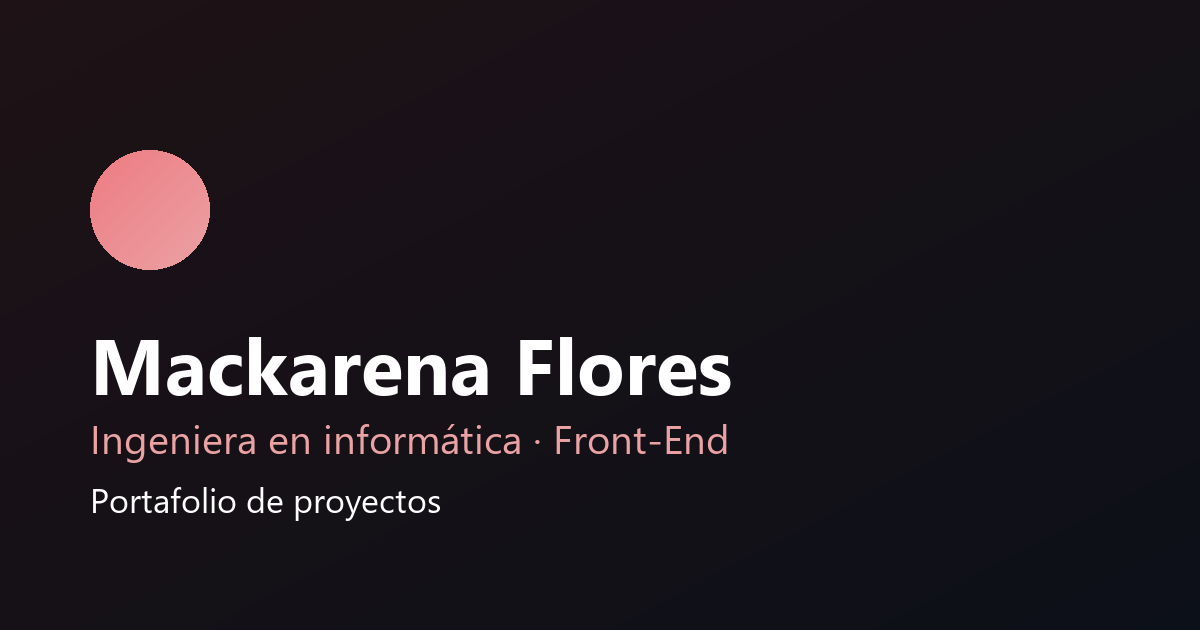
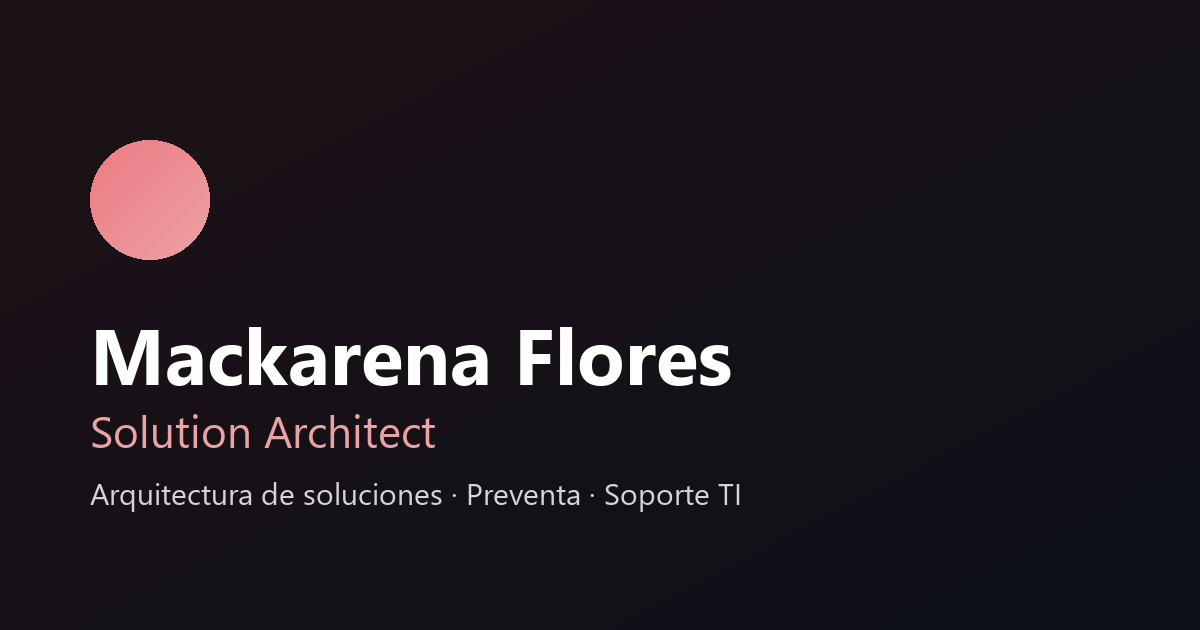
Feat: reposiciona el portafolio al perfil de Solution Architect
El sitio se presentaba como "Front-End en formacion", que ya no
corresponde al perfil actual ni a lo que muestra el CV.

Identidad y contenido
- Rol, titulo, kicker y metadatos pasan a Solution Architect.
- Hero reescrito: diseno de arquitecturas, revision de propuestas y
  alineacion con preventa, apoyado en la ruta soporte TI -> desarrollo.
- "Sobre mi" reescrito sobre ese recorrido; la linea de tiempo incorpora
  Blunding y Duoc UC.
- Habilidades pasan de HTML/CSS/JS a los tres bloques del CV:
  arquitectura y procesos, plataformas y datos, base tecnica.
- og-image regenerada con el nuevo rol.
- Correo de contacto: mgarrido@duocuc.cl -> Mackarena.Garrido.F@gmail.com,
  ya que el institucional caduca al titularse.

Proyecto Blunding Produccion
- Se anade como proyecto principal, por delante de Los Lingues.
- Al ser interno no lleva capturas ni enlaces: en su lugar, un diagrama
  de arquitectura en SVG que usa las variables de tema, con title/desc
  para lectores de pantalla, y una nota explicando por que no hay demo.
- En pantallas estrechas el SVG se encogia hasta ~4px de texto. Ahora
  mantiene un ancho minimo de 740px y se desplaza dentro de su caja, con
  el texto entre 10 y 14px.

Cifras retiradas: el sitio afirmaba "8 anos TENS · 6 meses en informatica".
Ese dato no esta respaldado por el CV, que registra 2017-2022 en el sector
salud, asi que la etapa en salud queda como contexto y no como titular.
Conviene revisarlo y decidir que cifra usar en ambos documentos.

diff --git a/index.html b/index.html
@@ -3,8 +3,8 @@
 <head>
   <meta charset="utf-8" />
   <meta name="viewport" content="width=device-width, initial-scale=1" />
-  <meta name="description" content="Portafolio de Mackarena Flores, ingeniera en informática enfocada en desarrollo front-end. Proyectos, habilidades y contacto." />
-  <title>Mackarena Flores — Portafolio Front-End</title>
+  <meta name="description" content="Mackarena Flores, Solution Architect. Diseño de arquitecturas, revisión de propuestas técnicas y apoyo a preventa, con base en soporte TI y desarrollo." />
+  <title>Mackarena Flores — Solution Architect</title>
   <link rel="canonical" href="https://fireeeh.github.io/portafolio/" />
 
   <!-- Iconos -->
@@ -16,14 +16,14 @@
   <!-- Open Graph: como se ve el enlace al compartirlo -->
   <meta property="og:type" content="website" />
   <meta property="og:locale" content="es_CL" />
-  <meta property="og:site_name" content="Portafolio de Mackarena Flores" />
-  <meta property="og:title" content="Mackarena Flores — Portafolio Front-End" />
-  <meta property="og:description" content="Ingeniera en informática enfocada en desarrollo front-end, con 8 años de experiencia previa en el sector salud." />
+  <meta property="og:site_name" content="Mackarena Flores — Solution Architect" />
+  <meta property="og:title" content="Mackarena Flores — Solution Architect" />
+  <meta property="og:description" content="Diseño de arquitecturas de solución, revisión de propuestas técnicas y apoyo a preventa, con base en soporte TI y desarrollo." />
   <meta property="og:url" content="https://fireeeh.github.io/portafolio/" />
   <meta property="og:image" content="https://fireeeh.github.io/portafolio/og-image.png" />
   <meta property="og:image:width" content="1200" />
   <meta property="og:image:height" content="630" />
-  <meta property="og:image:alt" content="Mackarena Flores — Ingeniera en informática, Front-End" />
+  <meta property="og:image:alt" content="Mackarena Flores — Solution Architect" />
   <meta name="twitter:card" content="summary_large_image" />
 
   <link rel="stylesheet" href="./styles.css" />
@@ -52,7 +52,7 @@
           <span class="brand__dot" aria-hidden="true"></span>
           <span class="brand__text">
             <span class="brand__name">Mackarena Flores</span>
-            <span class="brand__role">Ingeniera en informática</span>
+            <span class="brand__role">Solution Architect</span>
           </span>
         </a>
 
@@ -84,28 +84,34 @@
         <div class="hero__block hero__block--content">
           <div class="hero__content">
             <div class="kicker">
-              <span class="kicker__pill">Front-End en formación</span>
-              <span>8 años TENS · 6 meses en informática</span>
+              <span class="kicker__pill">Solution Architect</span>
+              <span>Arquitectura de soluciones · Preventa · Soporte TI</span>
             </div>
 
             <h1>Hola, soy <span class="name">Mackarena</span> 👋</h1>
 
             <p class="lead">
-              Ingeniera en informática dedicada al aprendizaje y práctica del desarrollo front-end,
-              área a la que dedico la mayor parte de mi rol actual. Aporto una visión práctica centrada en el usuario y los procesos,
-              respaldada por 8 años de experiencia en el sector salud, lo que me brinda una perspectiva única para crear 
-              interfaces que realmente resuelvan las necesidades del usuario y optimicen sus procesos.
+              Ingeniera en informática. Diseño arquitecturas de solución, reviso propuestas
+              técnicas y alineo al equipo de preventa para que lo que se ofrece sea lo que
+              se puede construir y sostener.
+            </p>
+
+            <p class="lead">
+              Llegué aquí desde el otro extremo: primero soporte TI, resolviendo incidencias y
+              sosteniendo la operación diaria; después desarrollo, revisando código y cuidando
+              que todo siguiera una misma línea. Esa ruta me dejó una forma concreta de mirar
+              una arquitectura: la de quien después tiene que operarla.
             </p>
 
             <div class="hero__actions">
               <a class="btn btn--primary" href="#proyectos">Ver proyectos</a>
               <a class="btn" href="https://www.linkedin.com/in/mackarenafloresg/" target="_blank" rel="noreferrer">LinkedIn</a>
-              <a class="btn" href="mailto:mgarrido@duocuc.cl">Contacto</a>
+              <a class="btn" href="mailto:Mackarena.Garrido.F@gmail.com">Contacto</a>
             </div>
 
             <div class="meta" aria-label="Resumen rápido">
-              <span class="chip"><span class="dot" aria-hidden="true"></span> Disponible para oportunidades junior</span>
-              <span class="chip">Intereses: UI limpia · Gestión y análisis de proyectos web · aprendizaje constante</span>
+              <span class="chip"><span class="dot" aria-hidden="true"></span> Encargada de soporte TI en Blunding</span>
+              <span class="chip">ITIL v4 · Scrum · AWS · SQL Server · Power BI</span>
             </div>
           </div>
         </div>
@@ -186,20 +192,23 @@
         <div class="grid">
           <div class="card box col-8">
             <p class="sobre__texto">
-              Durante ocho años trabajé como TENS en el sector salud, en entornos de alta demanda
-              donde el margen de error es estrecho y la comunicación con el equipo lo sostiene todo.
-              De esa etapa me quedaron tres cosas que uso a diario: método para trabajar bajo presión,
-              atención al detalle y la costumbre de mirar cualquier proceso desde quien lo va a usar.
+              Mi recorrido en tecnología empezó por el soporte: diagnosticar incidencias, preparar
+              equipos, escalar lo que no me correspondía resolver y sostener la operación cuando algo
+              se caía. Ese trabajo enseña algo que no se aprende en un diagrama: qué pasa con una
+              solución cuando lleva meses en producción y la usa gente que no la diseñó.
             </p>
             <p class="sobre__texto">
-              En 2022 entré a Ingeniería en Informática en Duoc UC y me titulé en 2025. Desde entonces
-              dedico la mayor parte de mi tiempo al desarrollo front-end: maquetación, estilos y
-              JavaScript, con foco en interfaces claras y responsive.
+              Después vino el desarrollo, y no tanto escribiendo funcionalidades nuevas como revisando
+              código y cuidando que los distintos módulos hablaran el mismo idioma: mismos criterios,
+              misma línea, sin que cada parte tirara para su lado. Es el punto donde la técnica deja de
+              ser solo técnica y pasa a ser una decisión de conjunto.
             </p>
             <p class="sobre__texto">
-              Lo que me interesa no es solo que una interfaz se vea bien, sino que resuelva el problema
-              de quien está al otro lado. Que es, en el fondo, lo mismo que hacía antes con otras
-              herramientas.
+              Hoy trabajo en arquitectura de soluciones: diseño cómo encajan las piezas, reviso
+              propuestas técnicas y acompaño a preventa para que lo que se compromete con un cliente
+              sea construible y sostenible. Antes de la informática trabajé años en el sector salud,
+              en entornos donde el margen de error es estrecho; de ahí me quedó el método y la
+              costumbre de pensar en quien está al final de la cadena.
             </p>
           </div>
 
@@ -208,15 +217,19 @@
             <ol class="linea">
               <li>
                 <span class="linea__fecha">Actualidad</span>
-                <span class="linea__hecho">Desarrollo front-end</span>
+                <span class="linea__hecho">Solution Architect</span>
+              </li>
+              <li>
+                <span class="linea__fecha">Desde 2025</span>
+                <span class="linea__hecho">Encargada de soporte TI, Blunding</span>
               </li>
               <li>
                 <span class="linea__fecha">2022 – 2025</span>
                 <span class="linea__hecho">Ingeniería en Informática, Duoc UC</span>
               </li>
               <li>
-                <span class="linea__fecha">8 años</span>
-                <span class="linea__hecho">TENS en el sector salud</span>
+                <span class="linea__fecha">Antes</span>
+                <span class="linea__hecho">Sector salud y soporte a usuarios</span>
               </li>
             </ol>
           </div>
@@ -230,6 +243,66 @@
 
         <div class="grid">
           <article class="card proj col-12">
+            <div class="proj__media proj__media--diagrama">
+              <svg viewBox="0 0 820 300" role="img" aria-labelledby="diag-titulo diag-desc" class="diagrama">
+                <title id="diag-titulo">Arquitectura de la plataforma Blunding Producción</title>
+                <desc id="diag-desc">Los usuarios internos de soporte, producción y comercial acceden a tres módulos —
+                  tickets ITIL v4, producción y fichas técnicas — que comparten una capa común de datos normalizados.</desc>
+
+                <rect x="270" y="12" width="280" height="44" rx="12" class="d-caja d-caja--tenue"/>
+                <text x="410" y="39" class="d-txt d-txt--sm">Usuarios internos</text>
+
+                <path d="M410 56 V 84 M170 84 H 650 M170 84 V 104 M410 84 V 104 M650 84 V 104" class="d-linea"/>
+
+                <rect x="30" y="104" width="280" height="106" rx="14" class="d-caja"/>
+                <text x="170" y="134" class="d-txt d-txt--tit">Módulo de Soporte</text>
+                <text x="170" y="160" class="d-txt d-txt--sm">Sistema de tickets</text>
+                <text x="170" y="182" class="d-txt d-txt--et">ITIL v4</text>
+
+                <rect x="330" y="104" width="160" height="106" rx="14" class="d-caja"/>
+                <text x="410" y="134" class="d-txt d-txt--tit">Producción</text>
+                <text x="410" y="160" class="d-txt d-txt--sm">Interfaces y</text>
+                <text x="410" y="178" class="d-txt d-txt--sm">activos visuales</text>
+
+                <rect x="510" y="104" width="280" height="106" rx="14" class="d-caja"/>
+                <text x="650" y="134" class="d-txt d-txt--tit">Fichas técnicas</text>
+                <text x="650" y="160" class="d-txt d-txt--sm">Agente auditor · perfiles</text>
+                <text x="650" y="182" class="d-txt d-txt--et">PDF automático</text>
+
+                <path d="M170 210 V 232 M410 210 V 232 M650 210 V 232 M170 232 H 650 M410 232 V 250" class="d-linea"/>
+
+                <rect x="270" y="250" width="280" height="44" rx="12" class="d-caja d-caja--datos"/>
+                <text x="410" y="277" class="d-txt d-txt--sm">Datos normalizados · SQL Server</text>
+              </svg>
+            </div>
+
+            <p class="diagrama__pista" aria-hidden="true">← Desliza el diagrama para verlo completo →</p>
+
+            <div class="proj__top">
+              <h3 class="proj__title">Blunding Producción — Plataforma interna</h3>
+              <span class="tag">Arquitectura</span>
+            </div>
+
+            <p class="proj__desc">
+              Plataforma interna que reunió en un solo sitio tres procesos que antes vivían dispersos.
+              El <strong>módulo de soporte</strong> implementa un sistema de tickets siguiendo ITIL v4, con
+              el flujo de registro, clasificación y escalamiento que ya se usaba en la operación diaria.
+              El <strong>módulo de producción</strong> resuelve las interfaces y los activos visuales. El
+              <strong>módulo de fichas técnicas</strong> normaliza y extrae datos de productos, con un agente
+              auditor por perfiles y generación automática de PDFs.
+            </p>
+            <p class="proj__desc">
+              La decisión de fondo fue que los tres módulos compartieran una misma capa de datos
+              normalizados en lugar de mantener cada uno su propia copia, que era el origen de las
+              inconsistencias que se venían arrastrando. En el prototipado y el desarrollo front-end me
+              apoyé en IA generativa.
+            </p>
+
+            <div class="stack"><span>Arquitectura</span><span>ITIL v4</span><span>SQL Server</span><span>Python</span><span>HTML/CSS</span></div>
+            <p class="proj__nota">Proyecto interno de Blunding: no hay demo pública ni repositorio abierto.</p>
+          </article>
+
+          <article class="card proj col-12 proj--secundario">
             <div class="proj__media">
               <img class="proj__img"
                    src="./los_lingues.webp"
@@ -265,16 +338,16 @@
 
         <div class="grid">
           <div class="card box col-4">
-            <h3>Actualmente utilizo</h3>
-            <ul class="list"><li>HTML, CSS, JavaScript</li><li>Responsive básico</li><li>Git / GitHub</li></ul>
+            <h3>Arquitectura y procesos</h3>
+            <ul class="list"><li>Diseño de soluciones y revisión de propuestas</li><li>ITIL v4 · gestión de incidencias y SLA</li><li>Scrum (CertiProf) · Bizagi</li></ul>
           </div>
           <div class="card box col-4">
-            <h3>Aprendiendo</h3>
-            <ul class="list"><li>Consumo de APIs</li><li>Buenas prácticas UI/UX</li><li>Framework Front-End (próximo paso)</li></ul>
+            <h3>Plataformas y datos</h3>
+            <ul class="list"><li>AWS · Microsoft 365</li><li>SQL Server · normalización de datos</li><li>Power BI · análisis y reportería</li></ul>
           </div>
           <div class="card box col-4">
-            <h3>Transferibles (TENS)</h3>
-            <ul class="list"><li>Trabajo en equipo y comunicación</li><li>Responsabilidad y enfoque en procesos</li><li>Calma bajo presión</li></ul>
+            <h3>Base técnica</h3>
+            <ul class="list"><li>Soporte y redes · configuración IP</li><li>Ciberseguridad (Cisco Essentials)</li><li>Python · HTML/CSS · Git/GitHub</li></ul>
           </div>
         </div>
       </section>
@@ -296,7 +369,7 @@
         <div class="footer__links">
           <a class="btn" href="https://www.linkedin.com/in/mackarenafloresg/" target="_blank" rel="noreferrer">LinkedIn</a>
           <a class="btn" href="https://github.com/Fireeeh" target="_blank" rel="noreferrer">GitHub</a>
-          <a class="btn btn--primary" href="mailto:mgarrido@duocuc.cl">Correo</a>
+          <a class="btn btn--primary" href="mailto:Mackarena.Garrido.F@gmail.com">Correo</a>
         </div>
       </div>
 

diff --git a/styles.css b/styles.css
@@ -517,6 +517,69 @@ section{ scroll-margin-top:90px; }
 }
 .proj__links{ display:flex; gap:10px; flex-wrap:wrap; }
 
+/* Diagrama de arquitectura (sustituye a la captura en proyectos internos) */
+.proj__media--diagrama{
+  aspect-ratio:auto;
+  padding:18px;
+  background:linear-gradient(135deg,
+    color-mix(in srgb, var(--c4) 22%, transparent),
+    color-mix(in srgb, var(--c1) 10%, transparent));
+}
+.diagrama{ width:100%; height:auto; display:block; }
+
+/* En pantallas estrechas el SVG se encogeria hasta ~4px de texto:
+   mejor mantener un ancho minimo legible y dejar que el diagrama
+   se desplace dentro de su propia caja. */
+@media (max-width: 760px){
+  .proj__media--diagrama{
+    overflow-x:auto;
+    overflow-y:hidden;
+    padding:14px;
+  }
+  .diagrama{ min-width:740px; }
+}
+.diagrama__pista{
+  display:none;
+  margin:8px 0 0;
+  font-size:11.5px;
+  color:color-mix(in srgb, var(--muted) 75%, transparent);
+}
+@media (max-width: 760px){
+  .diagrama__pista{ display:block; }
+}
+.d-caja{
+  fill:color-mix(in srgb, var(--panel2) 85%, var(--bg));
+  stroke:color-mix(in srgb, var(--c1) 40%, var(--border));
+  stroke-width:1.5;
+}
+.d-caja--tenue{ fill:color-mix(in srgb, var(--panel) 70%, var(--bg)); }
+.d-caja--datos{ stroke:color-mix(in srgb, var(--c1) 70%, transparent); stroke-dasharray:5 4; }
+.d-linea{
+  fill:none;
+  stroke:color-mix(in srgb, var(--c1) 45%, var(--border));
+  stroke-width:1.5;
+}
+.d-txt{
+  fill:var(--text);
+  text-anchor:middle;
+  font-family:var(--sans);
+}
+.d-txt--tit{ font-size:16px; font-weight:800; }
+.d-txt--sm{ font-size:13px; fill:var(--muted); }
+.d-txt--et{
+  font-size:11.5px;
+  font-weight:800;
+  letter-spacing:.4px;
+  fill:color-mix(in srgb, var(--c1) 85%, var(--text));
+}
+
+.proj__nota{
+  margin:10px 0 0;
+  font-size:12.5px;
+  color:color-mix(in srgb, var(--muted) 80%, transparent);
+  font-style:italic;
+}
+
 @media (max-width: 640px){
   .proj{ padding: 12px; }
   .proj__media{ aspect-ratio: 16/10; border-radius: 12px; }
